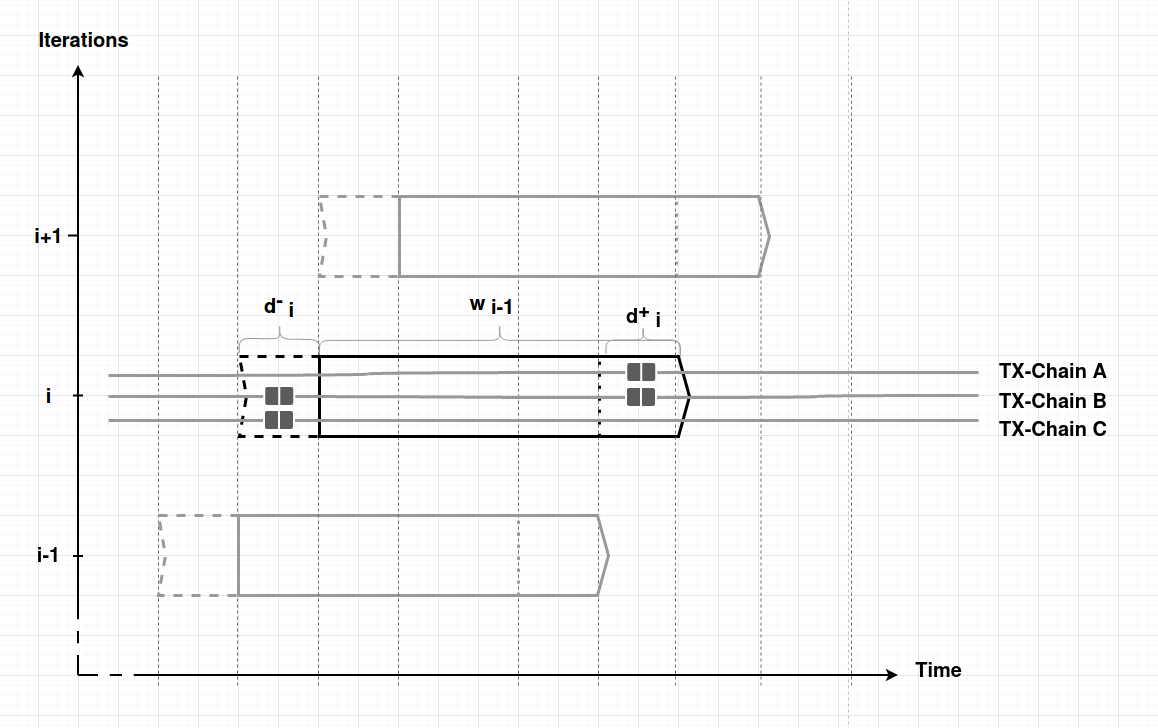
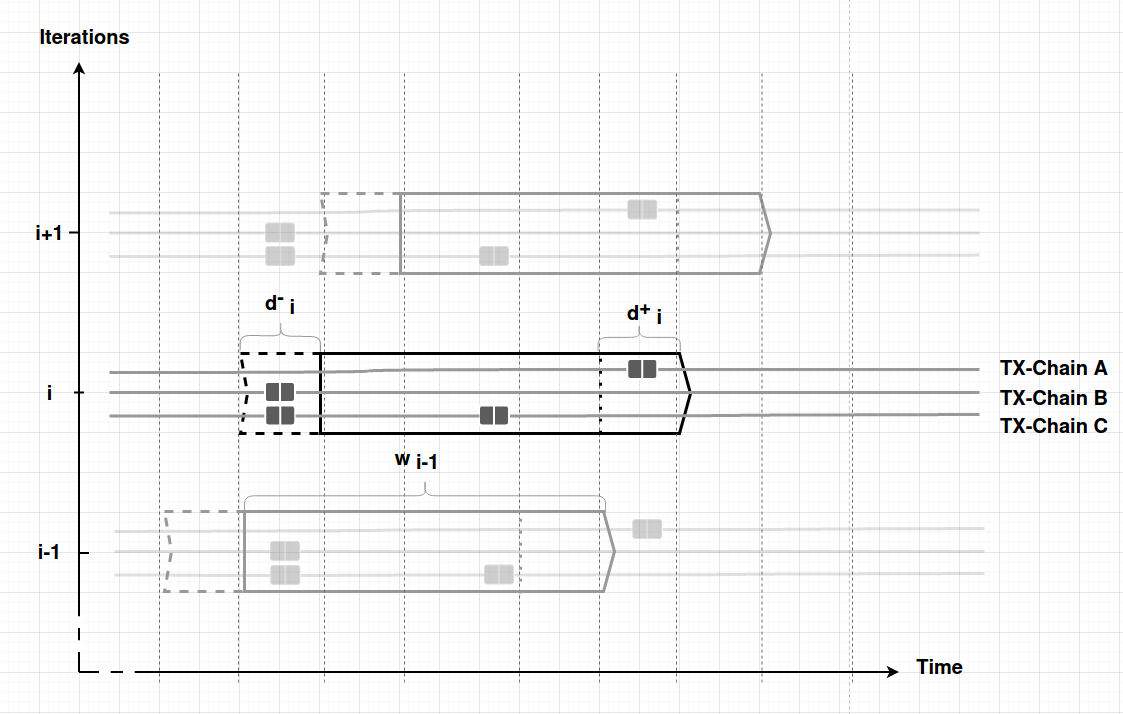
Rewrote much, finished some missing parts as well.

Changed region(s): [[0.0312, 0.0308, 0.9973, 0.8627], [0.0623, 0.8936, 0.8727, 0.9552]]

diff --git a/paper/paper02/Sections/03alg.tex b/paper/paper02/Sections/03alg.tex
@@ -1,10 +1,11 @@
 \section{Measuring money in circulation}
 \label{sec:measure}%
 
-In \cite{pernice2019cryptocurrencies} monetary units are seen as ``in circulation'' for measurement day \(\perd\)
-if they have been used as a medium of exchange. %
-Money is referred to as circulating if it has been moved economically within the last day, month, year or generally any time period $\wndw_\perd$%
-The measure is set up in a way that measurement-day \(\perd\) constitutes the last day of window \(\wndw_\perd\) for which money in circulation is to be estimated (compare figure~\ref{fig:timevars}). %
+In \cite{pernice2019cryptocurrencies} %
+% monetary units are seen as ``in circulation'' for measurement day \(\perd\) if they have been used as medium of exchange. %
+money is referred to as ``circulating'' if it has been moved economically within the last day, month, year or generally any time period $\wndw$.%
+The measure is set up in a way that measurement-day \(\perd\) constitutes the last day of window \(\wndw\) for which money in circulation is to be estimated. %
+%The length of time window is denominated \(\wndwLength\).
 Monetary units brought into circulation in the last second of day \(\perd\) are to be attributed to belong to money in circulation for \(\perd\). %  
 
 \begin{figure*}[ht!]%
@@ -27,55 +28,52 @@ Monetary units brought into circulation in the last second of day \(\perd\) are 
 
 \subsection{Intuition and original approach}
 \label{sec:orig_approach}%
-To estimate the subset of money supply which circulated within $\wndw$, the authors suggested to analyze the transactions recorded window $\wndw$.  %
-Ignoring change, outputs of coinbase transactions and as well as transactions spending outputs generated before $\wndw$ are interpreted as bringing an amount into circulation that corresponds to the value of spent outputs.  %
-All inputs referring to UTXOs generated \emph{within} period $\wndw$, on the
-other hand, re-spend money which has already been counted as circulating.%
+To estimate the subset of money supply which can be referred to as circulating, the authors suggested to analyze the transactions having occurred within $\wndw$. %
+Generally, outputs spent \emph{within} but generated \emph{before} \(\wndw\) are interpreted as putting money into circulation. %
+The same holds for freshly mined coins - the outputs of coinbase transactions. % 
+The amount of money put into circulation within \(\wndw\) corresponds to the aggregated value of such outputs. %
+On the other hand, transactions using the outputs of transactions having occurred in period $\wndw$ as well, are interpreted simply as re-spending money which has already been counted as circulating.%
 %
-\textbf{[@TODO Check against illustration.]}
 This can be illustrated with \reffig{mcirc_concept} where values are symbolized with coins. %
-Here, we would need to determine, how many monetary units have made the transaction volume $8$ (sum of outputs in C, D, E and F excluding self-churn) during period $\wndw$ possible. %
+Here, we would need to determine, how many monetary units have made the transaction volume of $8$ (sum of outputs in C, D, E and F excluding self-churn) during period $\wndw$ possible. %
 In this example, we would need to focus on transactions A, B and D in contrast to transactions C and E which reused monetary unspent transaction outputs that have been generated within period $\wndw$. %
 
 If change in transactions is to be considered, the general approach is complicated by a technicality of UTXO-based cryptocurrencies: Transactions always spend prior transaction outputs in full. %
-
 The authors defined two general approaches: \ac{wba} and \ac{mca}.  %
 \ac{wba} considers the sum of all inputs \textit{in circulation} (as technically all has been proven to be available for transactions) while the \ac{mca} only counts the fraction economically sent to third parties.  %
 %
-They are visualized in \reffig{mcirc_concept}.  %
+This is visualized in \reffig{mcirc_concept}.  %
 The moved-coin approach considers only output $\mathsf{Out_1}$ of transaction $\mathsf{Tx_C}$ as circulating, not the change output.  %
 This approach captures the net economic value transferred to a third party.  %
 The \ac{wba} classifies the whole input of transaction $\mathsf{Tx_C}$ as circulating.  %
 
-However, as for UTXO blockchains the relation between transaction inputs and outputs are not determined, \ac{mca} might not be defined clearly. %
+However, as for UTXO-based blockchains the relation between transaction inputs and outputs is undetermined, \ac{mca} might not be defined clearly. %
 If for a given transaction one input was generated within and one before $\wndw$, it remains unspecified which one corresponds to the change output.  %
-
 The authors thus utilized assignment rule between transaction inputs and outputs utilizing the terminology of cost accounting: %
 They differentiate between \ac{fifo}, where youngest inputs get assigned to outputs first, and \ac{lifo}, where it is the other way around.  %
 
-The authors introduced three definitions of money in circulation as measured for day \(\perd\), each defined by their respective windows \(\wndw\): %
-Money in circulation for period $\wndw$ adopting the \ac{wba} ($ \MCircWbPWl $), and both the \ac{mca} with the \ac{lifo} rule ($ \MCircMlPWl $) and the \ac{fifo} rule ($ \MCircMfPWl $).
+Summarizing, the authors introduced three definitions of money in circulation as measured for day \(\perd\), each defined by their respective window \(\wndw\): %
+Money in circulation for period $\wndw$ adopting the \ac{wba} ($ \MCircWbWl $), and both the \ac{mca} with the \ac{lifo} rule ($ \MCircMlWl $) and the \ac{fifo} rule ($ \MCircMfWl $).
 
 \subsection{Necessity for a more efficient implementation}
 \label{sec:necessity_effi}%
-Applying their measure to Bitcoin data, \cite{pernice2019cryptocurrencies} where analyzing data for a velocity estimate based on money which has been circulating within the last day. %
+Applying their measure to Bitcoin data, in \cite{pernice2019cryptocurrencies} data for a velocity estimate based on money which has been circulating within the last day has been analyzed. %
 Basing money in circulation on a monthly or yearly basis might provide interesting insights and was suggested by the authors as potential avenue for future research. %
 The implementation suggested, however, is rather inefficient for larger time windows \(\wndw\). %
-
-The algorithm proposed in \cite{pernice2019cryptocurrencies} loops over-and-over again over the same transactions as windows \(\wndw\) overlap: %
-As illustrated in the conceptional description of the three velocity measures, determining whether an unspent output was spent in a given time window is essential for the chosen approach. %
-While this is computationally feasible for small time windows, already for look-back windows of a few days, naively looping through all transactions is problematic. %
-For daily timeseries data and multiday look-back time windows the data for computations overlaps. %
+The algorithm proposed in \cite{pernice2019cryptocurrencies} loops over-and-over again over the same transactions as windows \(\wndw\) overlap. %
+% As illustrated in the conceptional description of the three velocity measures, determining whether an unspent output was spent in a given time window is essential for the chosen approach. %
+While this is computationally feasible for small time windows, already for overlapping windows of a few days, naively looping through all transactions has proven problematic. %
 The published code on \url{https://github.com/wiberlin/ccurr_velocity} for a look-back time window of a week takes XYZ hours to terminate even if restricted on the first 3 years of the Bitcoin blockchain and run using all XY cores of a server with XY GB ram. 
 \textbf{[TODO George: Here comes some O-Notation magic!]}
 We thus propose an improved algorithmic implementation proceeding inductively. %
 
 \subsection{Inaccuracy due to mistreatment of transaction fees}
 \label{sec:inaccuracy_fees}%
-Relying only on non-recycling transaction outputs and coinbase transactions to estimate money in circulation, the approach chosen by \cite{pernice2019cryptocurrencies} misrepresents fees as always in circulation. %
-The reasons is that fees are captured by outputs of coinbase transactions which, when spent, are always added to the circulating money supply . %
+Relying only on non-recycling transaction outputs and coinbase transactions to estimate money in circulation, the approach chosen by \cite{pernice2019cryptocurrencies} misrepresents fees. %
+All fees are treated as money in circulation. %
+The reasons is that fees are captured by outputs of coinbase transactions which, when spent, are always added to the circulating money supply. %
 This is a slight misrepresentation. %
-Fees of transactions that have been respent in within time window \(\wndw\) ought to be considered respent as well. %
+Fees of transactions that have been respent within time window \(\wndw\) ought to be considered ``respent coins'' as well. %
 We thus, in addition to addressing the issue summarized in section \ref{sec:necessity_effi}, suggest a slight adaptation improving the estimates precision. %
 
 \subsection{Disentanglement of  transaction fees}
@@ -93,94 +91,89 @@ We thus, in addition to addressing the issue summarized in section \ref{sec:nece
 
 \subsubsection{Intuition}
 \label{sec:novel_impl_intuition}%
-Our approach allows for reusing and adjusting information of calculations for prior time-windows instead of recalculating them entirely for every day. %
+Our approach allows for reusing calculations. %
 While the novel implementation allows effectively for larger time-windows \(\wndwLength\), we reuse the general approach for measuring money in circulation proposed in \cite{pernice2019cryptocurrencies}. %
 We do adapt it, however, by adjusting and recombining its elements. %
-Our implementation steps through time by iteration periods \(\iterp\) which we chose to be 1 day each. %
-A single inductive step \(\iteri\) takes the amount of money in circulation for time window \(\wndw_\iteri\) and reuses most of its information to calculate an estimate for \(\wndw_{iteri+1}\) (compare Figure \ref{fig:aggr}). %
+Our implementation steps through time by iteration periods which we chose to be 1 day each. %
+A single inductive step \(\iteri\) takes the amount of money in circulation for time window \(\wndw_\iteri\) and reuses it to calculate the estimate for \(\wndw_{\iteri+1}\) (compare Figure \ref{fig:aggr}). %
 Simply put, for every iteration step we thus add a new day to the window of the last day \(\wndw_{\iteri-1}\) (lets call this day \(\iterhead_{\iteri}\)) and eliminate the oldest one (lets call him \(\itertail_{\iteri}\)). %
 As a consequence we have to adjust the estimate for window \(\wndw_\iteri\) for the transactions in the above two days. %
 Roughly spoken, we thus:
 \begin{enumerate}
-\item add the value of monetary units put into circulation by the transactions of the day \(\iterhead_{\iteri}\) that was just added, %
-\item and subtract monetary units that had belonged to the day \(\itertail_{\iteri}\)) that was just eliminated from window \(\wndw_{\iteri}\) to form the new window \(\wndw_{\iteri+1}\). %
-\item However, there are also certain adjustments that need to be made for transactions that cannot be counted as ``respending coins'' any longer due to the shift of the window. %
+\item add the value of monetary units put into circulation by the transactions of the day \(\iterhead_{\iteri}\), %
+\item subtract monetary units that had belonged to the day \(\itertail_{\iteri}\)), %
+\item adjust for transactions that cannot be counted as ``respending coins'' any longer due to the shift from \(\wndw_{\iteri}\) to \(\wndw_{\iteri + 1}\). %
 \end{enumerate}
-How do the three steps proceed exactly and why is that the same as looping over all transactions in period \(\wndw\) for which \(\MCirc\) is to be estimated?
+How do the three steps proceed exactly and why is that the same as looping over all transactions in period \(\wndw\) for which \(\MCirc\) is to be estimated? %
 Figure \ref{fig:aggr} illustrates the basic intuition. %
-
-If money-in-circulation for window \(\wndw_{\iteri}\) is to be estimated, we use the previous estimate for window \(\wndw_{\iteri-1}\) as basis. %
+If money in circulation for window \(\wndw_{\iteri}\) is to be estimated, we use the previous estimate for window \(\wndw_{\iteri-1}\) as basis. %
 Step 1, then, is simply estimating, aggregating and lastly adding money put to circulation for each transaction pursued in day \(\iterhead_{\iteri}\) following the basic ideas from Section \ref{sec:orig_approach}. %
-In Figure \ref{fig:aggr}, for example, transaction chain \(\mathsf{TX-Chain A}\) features a single transaction during day \(\iterhead_{\iteri}\) which uses an input generated long ago. The respective transaction output would thus be added to \(\MCirc\).
+In Figure \ref{fig:aggr}, for example, transaction chain \(\mathsf{A}\) features a single transaction during day \(\iterhead_{\iteri}\) which uses an input generated long ago. The respective transaction output would thus be added to \(\MCirc\).
 Step 2 subtracts money supply that stems from transactions of the eliminated day \(\itertail_{\iteri}\). %
-In Figure \ref{fig:aggr}, transaction chain \(\mathsf{TX-Chain B}\) has a single transaction which occurred during within the window in the previous iteration step, but now drops out with the elimination of \(\iterhead_{\iteri}\). %
+In Figure \ref{fig:aggr}, transaction chain \(\mathsf{B}\) has a single transaction which occurred during within the window in the previous iteration step, but now drops out with the elimination of \(\iterhead_{\iteri}\). %
 The respective outputs do not represent coins put into circulation for period \(\wndw_{iteri}\) any more and thus need to be subtracted. %
-Step 3, adjusts for transactions occurring on days within window \(\wndw_\iteri\) which might be linked to outputs from transactions having occurred during the eliminated day. %
+Step 3 adjusts for transactions occurring on days within window \(\wndw_\iteri\) which might be linked to outputs from transactions having occurred during the eliminated day. %
 These transactions cannot be seen as re-spending coins anymore but now are to be counted as putting money into circulation. %
-This can be exemplified by \(\mathsf{TX-Chain C}\) in Figure \ref{fig:aggr}. %
+This can be exemplified by \(\mathsf{C}\) in Figure \ref{fig:aggr}. %
 The second transaction for calculating \(\MCirc\) for \(\wndw_{\iteri-1}\) would be counted as re-spending money put into circulation by the first transaction. %
 With shifting \(\wndw_{\iteri-1}\) to \(\wndw_{\iteri}\) its the second transaction, however, that puts unspent transaction outputs from outside the window into circulation. %
-Having subtracted money put into circulation by the first transaction of \(\mathsf{TX-Chain C}\) in step 2, we need to adjust our estimation of \(\MCirc\) by adding the value of the outputs used by the second transaction of \(\mathsf{TX-Chain C}\). % 
+Having subtracted money put into circulation by the first transaction of \(\mathsf{C}\) in step 2, we need to adjust our estimation of \(\MCirc\) by adding the value of the outputs used by the second transaction of \(\mathsf{C}\). %
 
-Why is this procedure leading to the correct result? %
-\textbf{TODO: Add in what broke initial idea.}
-
-
-Why are we relying on induction instead of simply pre-calculating estimates for each day separately and then aggregating them? %
-\textbf{TODO: Add in what broke initial idea.}
+% Why are we relying on induction instead of simply pre-calculating estimates for each day separately and then aggregating them? %
+% \textbf{TODO: Add in what broke initial idea.}
 
 
 \subsubsection{Algorithmic implementation}
 \label{sec:novel_impl_algo}%
-\textbf{[TODO: Here the variables are still not in line with the rest of the paper and window length, index and period confusing.]}
+The exact implementation of the inductive framework sketched in Section \ref{sec:novel_impl_intuition} is given in Algorithm \ref{algo:code_aggr}. %
+We step trough the transaction history day-by-day, shifting the window \(\wndw_{\iteri}\) with every iteration step \(\iteri\) to achieve estimates for measurement day \(\perd_{\iteri}\). %
+To facilitate notation, we refer to windows and iteration periods dropping the index \(\iteri\) in Algorithms \ref{algo:code_mcirc_cond}, \ref{algo:code_mcirc} and \ref{algo:code_mcirc_for}. %
 
-The sketched implementation of the inductive framework is given in Algorithm \ref{algo:code_aggr}. %
-The framework takes window \(\wndw\) and pre-cashed a data structure offering the set of coinbase outputs representing fees per block-height as input. %
-It then loops trough every iteration period \(d\) constituting the whole history of the blockchain. %
-In a first preparative step, pre-computes helper-structures for each day \(d\):
-\begin{itemize}
-\item \( \MSetCirc_{1}[d] \), money drawn into active circulation by the transactions of day \( d \) if a window of 1 is assumed,
-\item \( \MSetCircLB[d] \), money drawn into active circulation by the transactions of day \(d\) if a window of w is assumed,
-\item \( \MSetCircLA[d] \), and a corrective value based on transaction outputs from transactions during day \(d\) that can no longer be seen as ``respent-coins'' for window \(\wndw\).  
-\end{itemize}
+In a first preparative step, we pre-compute three helper-structures for each day \(\perd\), corresponding to the three implementation-steps presented in Section \ref{sec:novel_impl_intuition}:
+\begin{enumerate}
+\item \( \MSetCircLB[\perd] \), money drawn into active circulation by the transactions of day \(\perd\) if a window of w is assumed,
+\item \( \MSetCirc_{1}[\perd] \), money drawn into active circulation by the transactions of day \( \perd \) if a window of 1 is assumed,
+\item \( \MSetCircLA[\perd] \), and a corrective value based on transaction outputs from transactions during day \(\perd\) that can no longer be seen as ``respent-coins'' for window \(\wndw\).  
+\end{enumerate}
 
-For now, we will simply treat the above three structures as black boxes and focus on the iterative framework which starts at line 17 of the pseudo-code.%
-\footnote{The calculations for the three helper-structure are summarized in the following paragraphs.} %
+Note, that helper-structures are not necessarily all applied to the calculation of \(\MCirc_{\wndw}[p]\) but might be applied in a shifted fashion. %
 
-The regular inductive steps are taken for \(d \geq w \).%
-\footnote{
-For days \(d < \wndw \), money put into circulation for a window \(\wndw\) by transactions of day \(d\) is simply the output-sum of coinbase transactions \(\MSetCbs[d]\). %
-We use this intuition to initialize the algorithm.} %
-First of all, as described in Section \ref{sec:novel_impl_intuition}, we set \(\MSetCircAggr[d]\), money in circulation over time window \(w\) as measured for iteration day \(d\), simple to its last calculated value. %
-This value is now the base for adjustments. %
-Using the pre-computed values, we can simply following the intuition layed out in \ref{sec:novel_impl_intuition}: %
-We add \(\MSetCircLB[d]\), and thus money brought into circulation on day \(d\) added to the previous window to \(\MSetCircAggr[d]\). %
-After that, we then subtract money in circulation for the day eliminated from the \(\wndw - 1\) and thus \(\MSetCirc_{1}[d_{sub}]\). %
-Without further adjustment, however, we would ignore that by shifting the window boundaries certain transaction outputs cannot be seen any longer as ``respent-coins'' as the spent output no longer lies ``inside'' the respectiv time window. %
-We thus add \( \MSetCircLA[d_{sub}] \) which, roughly spoken, aggregates money brought into circulation by transactions sspending outputs of transactions during day \(d\) if the new window boundaries are applied. %
-
-Why does this work?
-
-\textbf{TODO: Plot with explanation}
-
-How are \(\MSetCirc_{1}\), \( \MSetCircLA[d] \) and \( \MSetCircLB[d] \) calculated in detail? % 
-
-As in the original implementation, the core of the estimation procedure is given by the decision rules determining the amount of money that is put into circulation by individual transactions (compare Algorithm \ref{algo:code_mcirc}).%
+How are \(\MSetCirc_{1}\), \( \MSetCircLA[d] \) and \( \MSetCircLB[d] \) calculated in detail? %
+As in the original implementation, the core of the estimation procedure is given by the decision rules determining the amount of money that is put into circulation by individual transactions. %
+The procedure is summarized in \(Algorithm \ref{algo:code_mcirc}\). %
 \footnote{Stressing the novel inductive implementation setup, we reduce the complexity of the calculations by illustrating only the calculations for the \ac{wba}. %
 Note, that the pseudo-code for money in circulation under the assumptions of \ac{lifo} and \ac{fifo} can be checked out in our open-source repository \url{https://github.com/wiberlin/ccurr_velocity}.
 }
-If the respective amount can be estimated by looping trough all inputs \(\Inp_{t}\) of transaction \(t\) and adding up values of inputs \(\val(i)\) referencing to outputs of coinbase transactions or are generated before the first timestamp of time window \(\wndw\) which is characterizing the estimate to be achieved (compare Section \ref{sec:orig_approach}). %
+Money in circulation can be estimated by looping trough all inputs \(\Inp_{t}\) of transaction \(t\). %
+All inputs are searched for such that are referencing to outputs of coinbase transactions or to outputs generated in transactions generated before the first timestamp of time window \(\wndw\). (compare Section \ref{sec:orig_approach}). %
+The values of such inputs \(\val(i)\) are then aggregated to form \(\MCirc\). %
 This core-functionality is referenced as function throughout the paper as function \(GetMCirc\bigl(t,\,\typett,\,\wndw,\bigr)\). %
-
 Let's first turn to the computation of \(\MSetCircLA[d]\) and \(\MSetCirc_{1}[d]\) respectively. %
-Obviously, our implementation will just apply \(GetMCirc\bigl(t,\,\typett,\,\wndw,\bigr)\) to aggregate the money supply put into circulation by all transactions \(\TxD\) of day \(d\) that has been added when shifting the window in the inductive process. % 
-
+Obviously, our implementation will just apply \(GetMCirc\bigl(t,\,\typett,\,\wndw,\bigr)\) to aggregate the money supply put into circulation by all transactions \(\TxD\) of day \(d\) that has been added when shifting the window in the inductive process. %
 The computation of adjustment value \(\MSetCircLB[d]\) is slightly more complex. %
 As given in line 14 of Algorithm \ref{algo:code_aggr}, we apply a function \(\MCircAdj(t,w)\) to all transactions in day \(d\). %
 The inner workings of \(\MCircAdj(t,w)\) are illustrated in Algorithm \ref{algo:code_outs_spent_within}: % 
 For every transaction \(t\), \(\MCircAdj(t,w)\) loops through all outputs and establishes whether the respective output has served as input of a transaction within window \(\wndw\). %
 For the output's ``spending-transacting'' we thus want to aggregate the values of outputs that represent money put into circulation with respect to the new window \(\wndw + 1\). %
-In Algorithm \ref{algo:code_outs_spent_within}, this is illustrated by adding value of output 
+In Algorithm \ref{algo:code_outs_spent_within}, this is illustrated by adding value of output XYZ
+
+
+% \textbf{[TODO: Change the denomination of the ``non-aggregated'' measures. They are confusion. This can be noticed here.]}
+% For now, we will simply treat the above three structures as black boxes and focus on the iterative framework which starts at line 17 of Algorithm \ref{algo:code_aggr}.%
+% \footnote{The calculations for the three helper-structure are summarized in the following paragraphs.} %
+
+Inductive steps are taken for \(\perd \geq \wndw \).%
+\footnote{
+For days \(\perd < \wndw \), money put into circulation for a window \(\wndw\) by transactions of day \(\perd\) is simply the output-sum of coinbase transactions \(\MSetCbs[\perd]\). %
+We use this intuition to initialize the algorithm.} %
+First of all, money in circulation \(\MSetCircAggr[\perd]\) over window \(w\) is set to its last calculated value. %
+This value is now the base for adjustments. %
+Using the pre-computed values, we can simply follow the intuition laid out in \ref{sec:novel_impl_intuition}: %
+We add \(\MSetCircLB[\perd]\), and thus money brought into circulation on day \(\iterhead\) to the still outdated \(\MSetCircAggr[\perd]\). %
+After that, we adapt \(\MSetCircAggr[\perd]\) further by subtracting money in circulation for the day eliminated from the \(\wndw - 1\) and thus \(\MSetCirc_{1}[\itertail]\). %
+Without further adjustment, however, we would ignore that by shifting the window boundaries certain transaction outputs cannot be seen any longer as ``respent-coins'' as the spent output no longer lies ``inside'' the respectiv time window. %
+We thus add \( \MSetCircLA[\itertail] \) which, roughly spoken, aggregates money brought into circulation by transactions spending outputs of transactions during day \(d\) if the new window boundaries are applied. %
+
 
 
 % %%%%%%%%%%%%%%%%%%%%%%%%%%%%%%%%%%%%%%%%%%%%%%%%%%%%%%%%%%%%%%%%%%%%%

diff --git a/paper/paper02/Sections/pVar.tex b/paper/paper02/Sections/pVar.tex
@@ -252,8 +252,8 @@
 \newcommand{\MCircLA}       {{\MCirc_{\overset{\rightarrow}{\wndw}}}}
 \newcommand{\MCircLB}       {{\MCirc_{\overset{\leftarrow}{\wndw}}}}
 \newcommand{\MSetCirc}      {{\mathbb{M}_{\circtt}}}
-\newcommand{\MSetCircLA}    {{\MSetCirc_{\overset{\rightarrow}{\wndw}}}}
-\newcommand{\MSetCircLB}    {{\MSetCirc_{\overset{\leftarrow}{\wndw}}}}
+\newcommand{\MSetCircLA}    {{\MSetCirc^{\mathtt{adj}}_{\wndw}}}%{{\MSetCirc_{\overset{\rightarrow}{\wndw}}}}%
+\newcommand{\MSetCircLB}    {{\MSetCirc_{\wndw}}}%{{\MSetCirc_{\overset{\leftarrow}{\wndw}}}}%
 \newcommand{\MCircWb}       {{M_{\circttWb}}}
 \newcommand{\MCircM}        {{M_{\circttM}}}
 \newcommand{\MCircMl}       {{M_{\circttMl}}}
